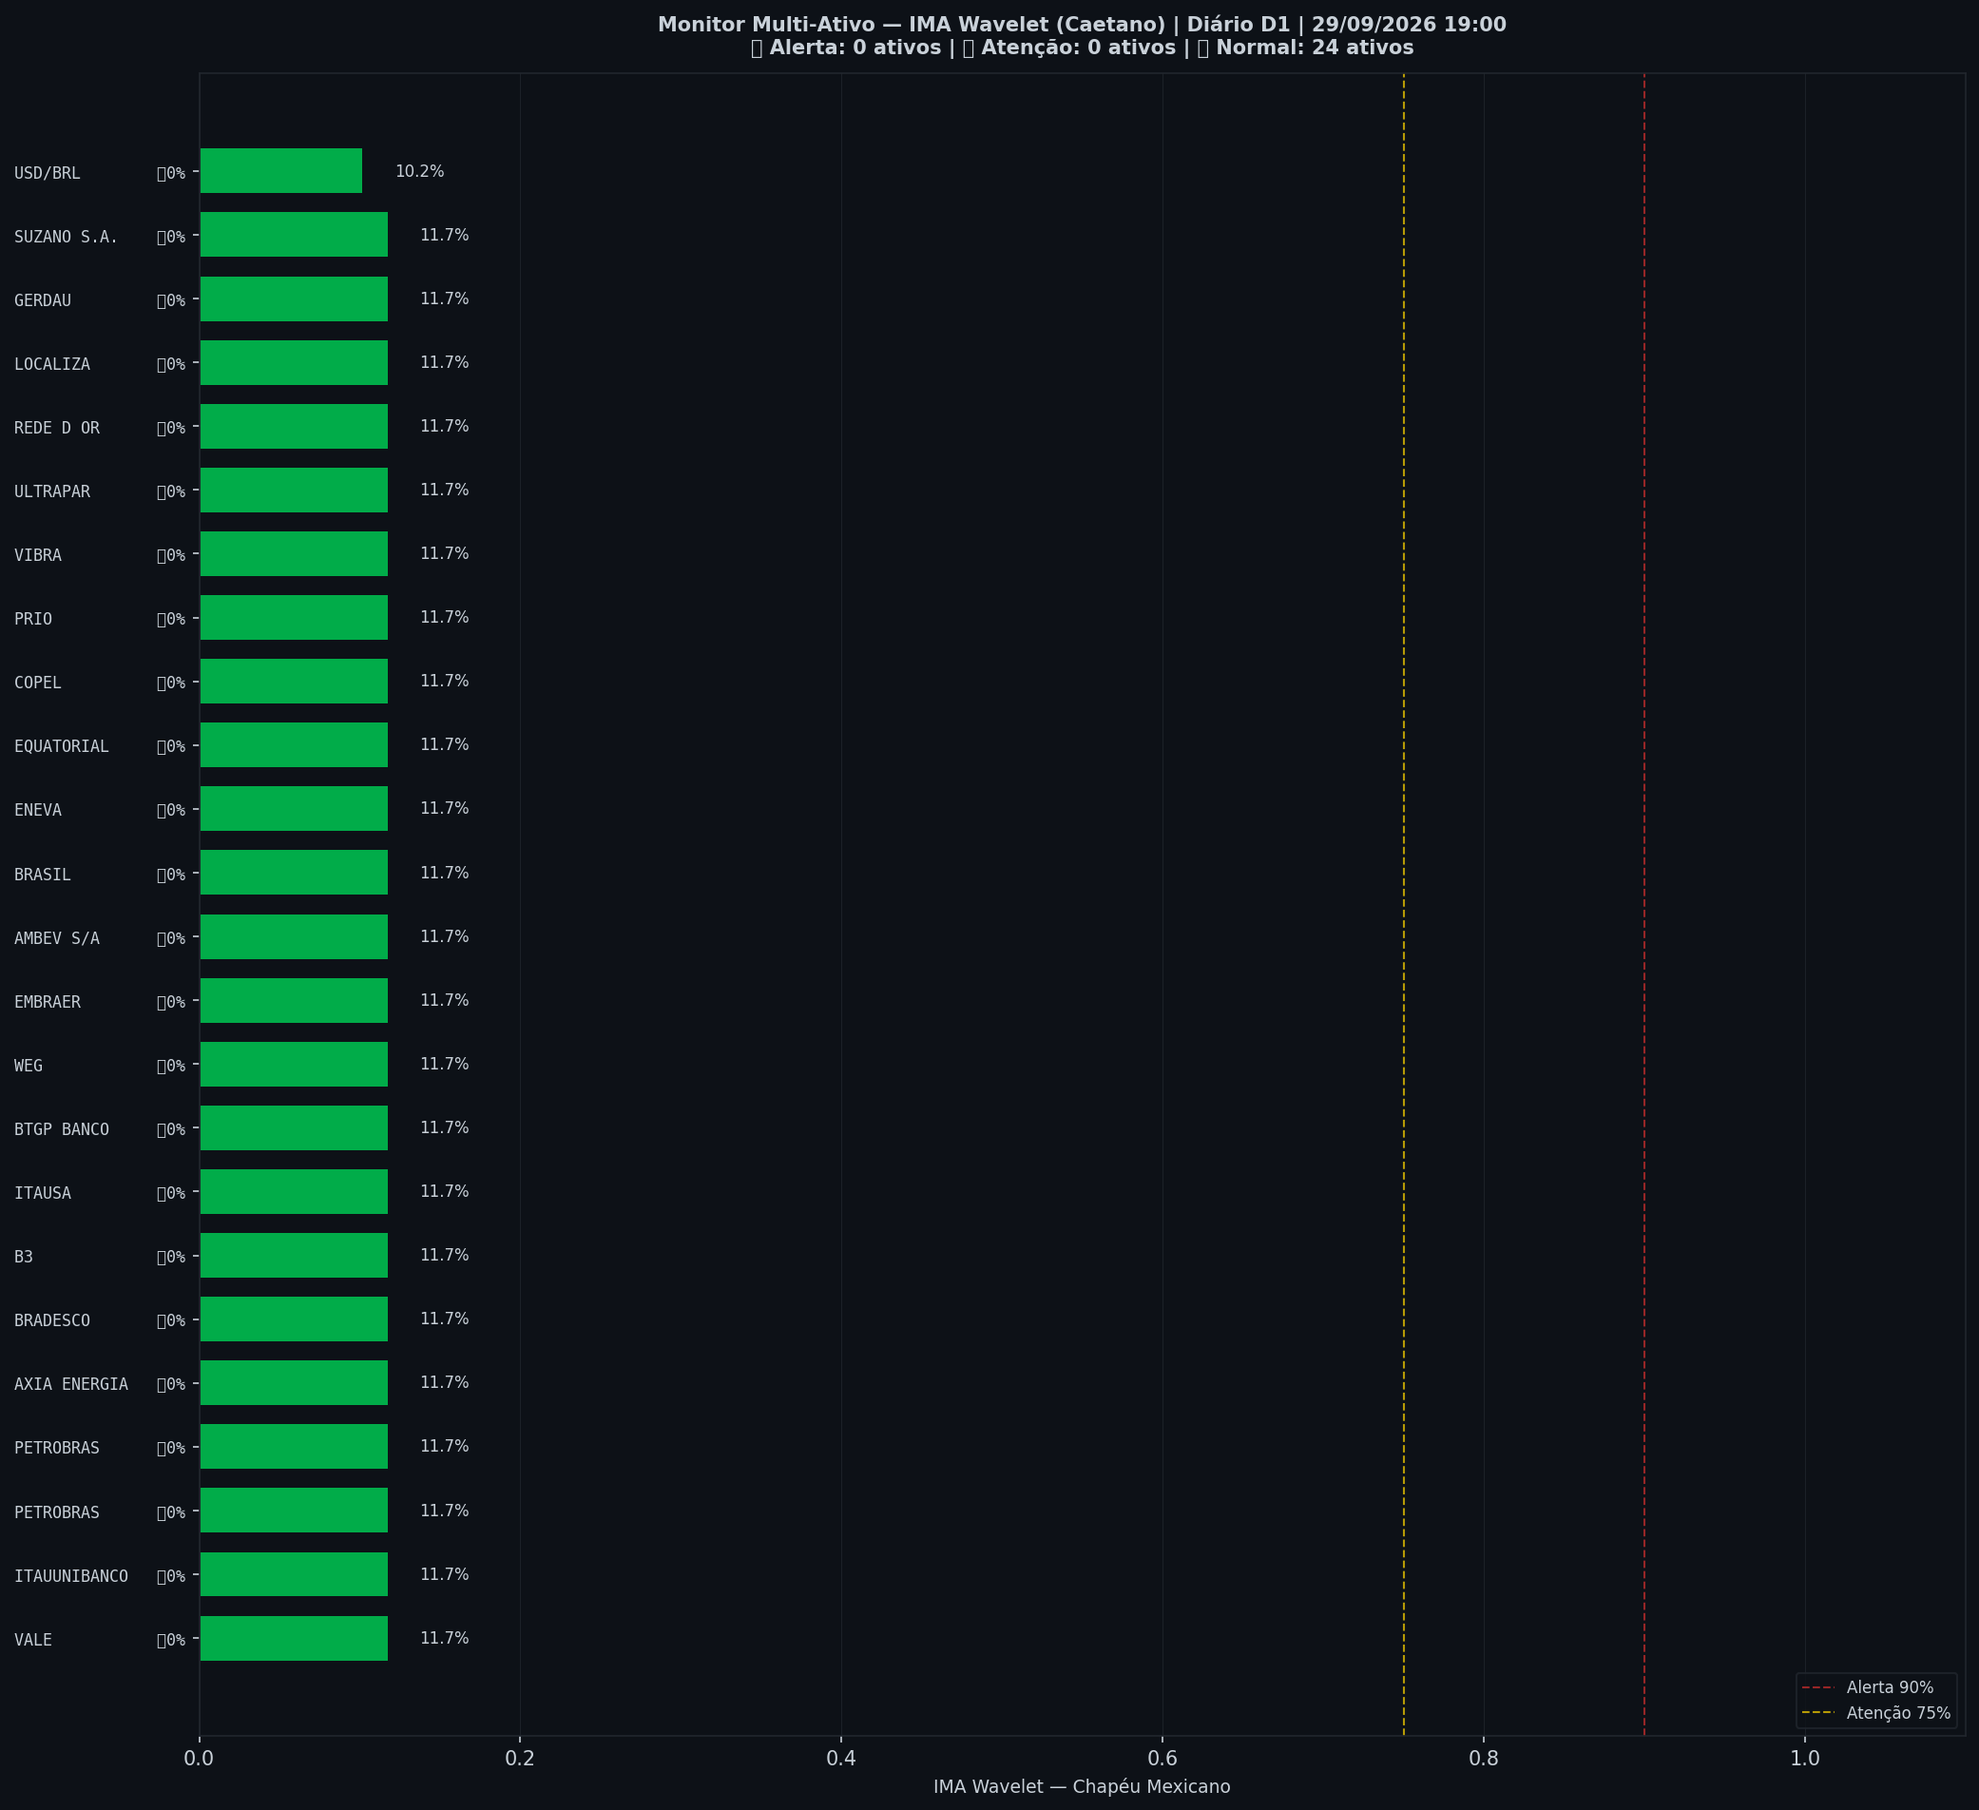
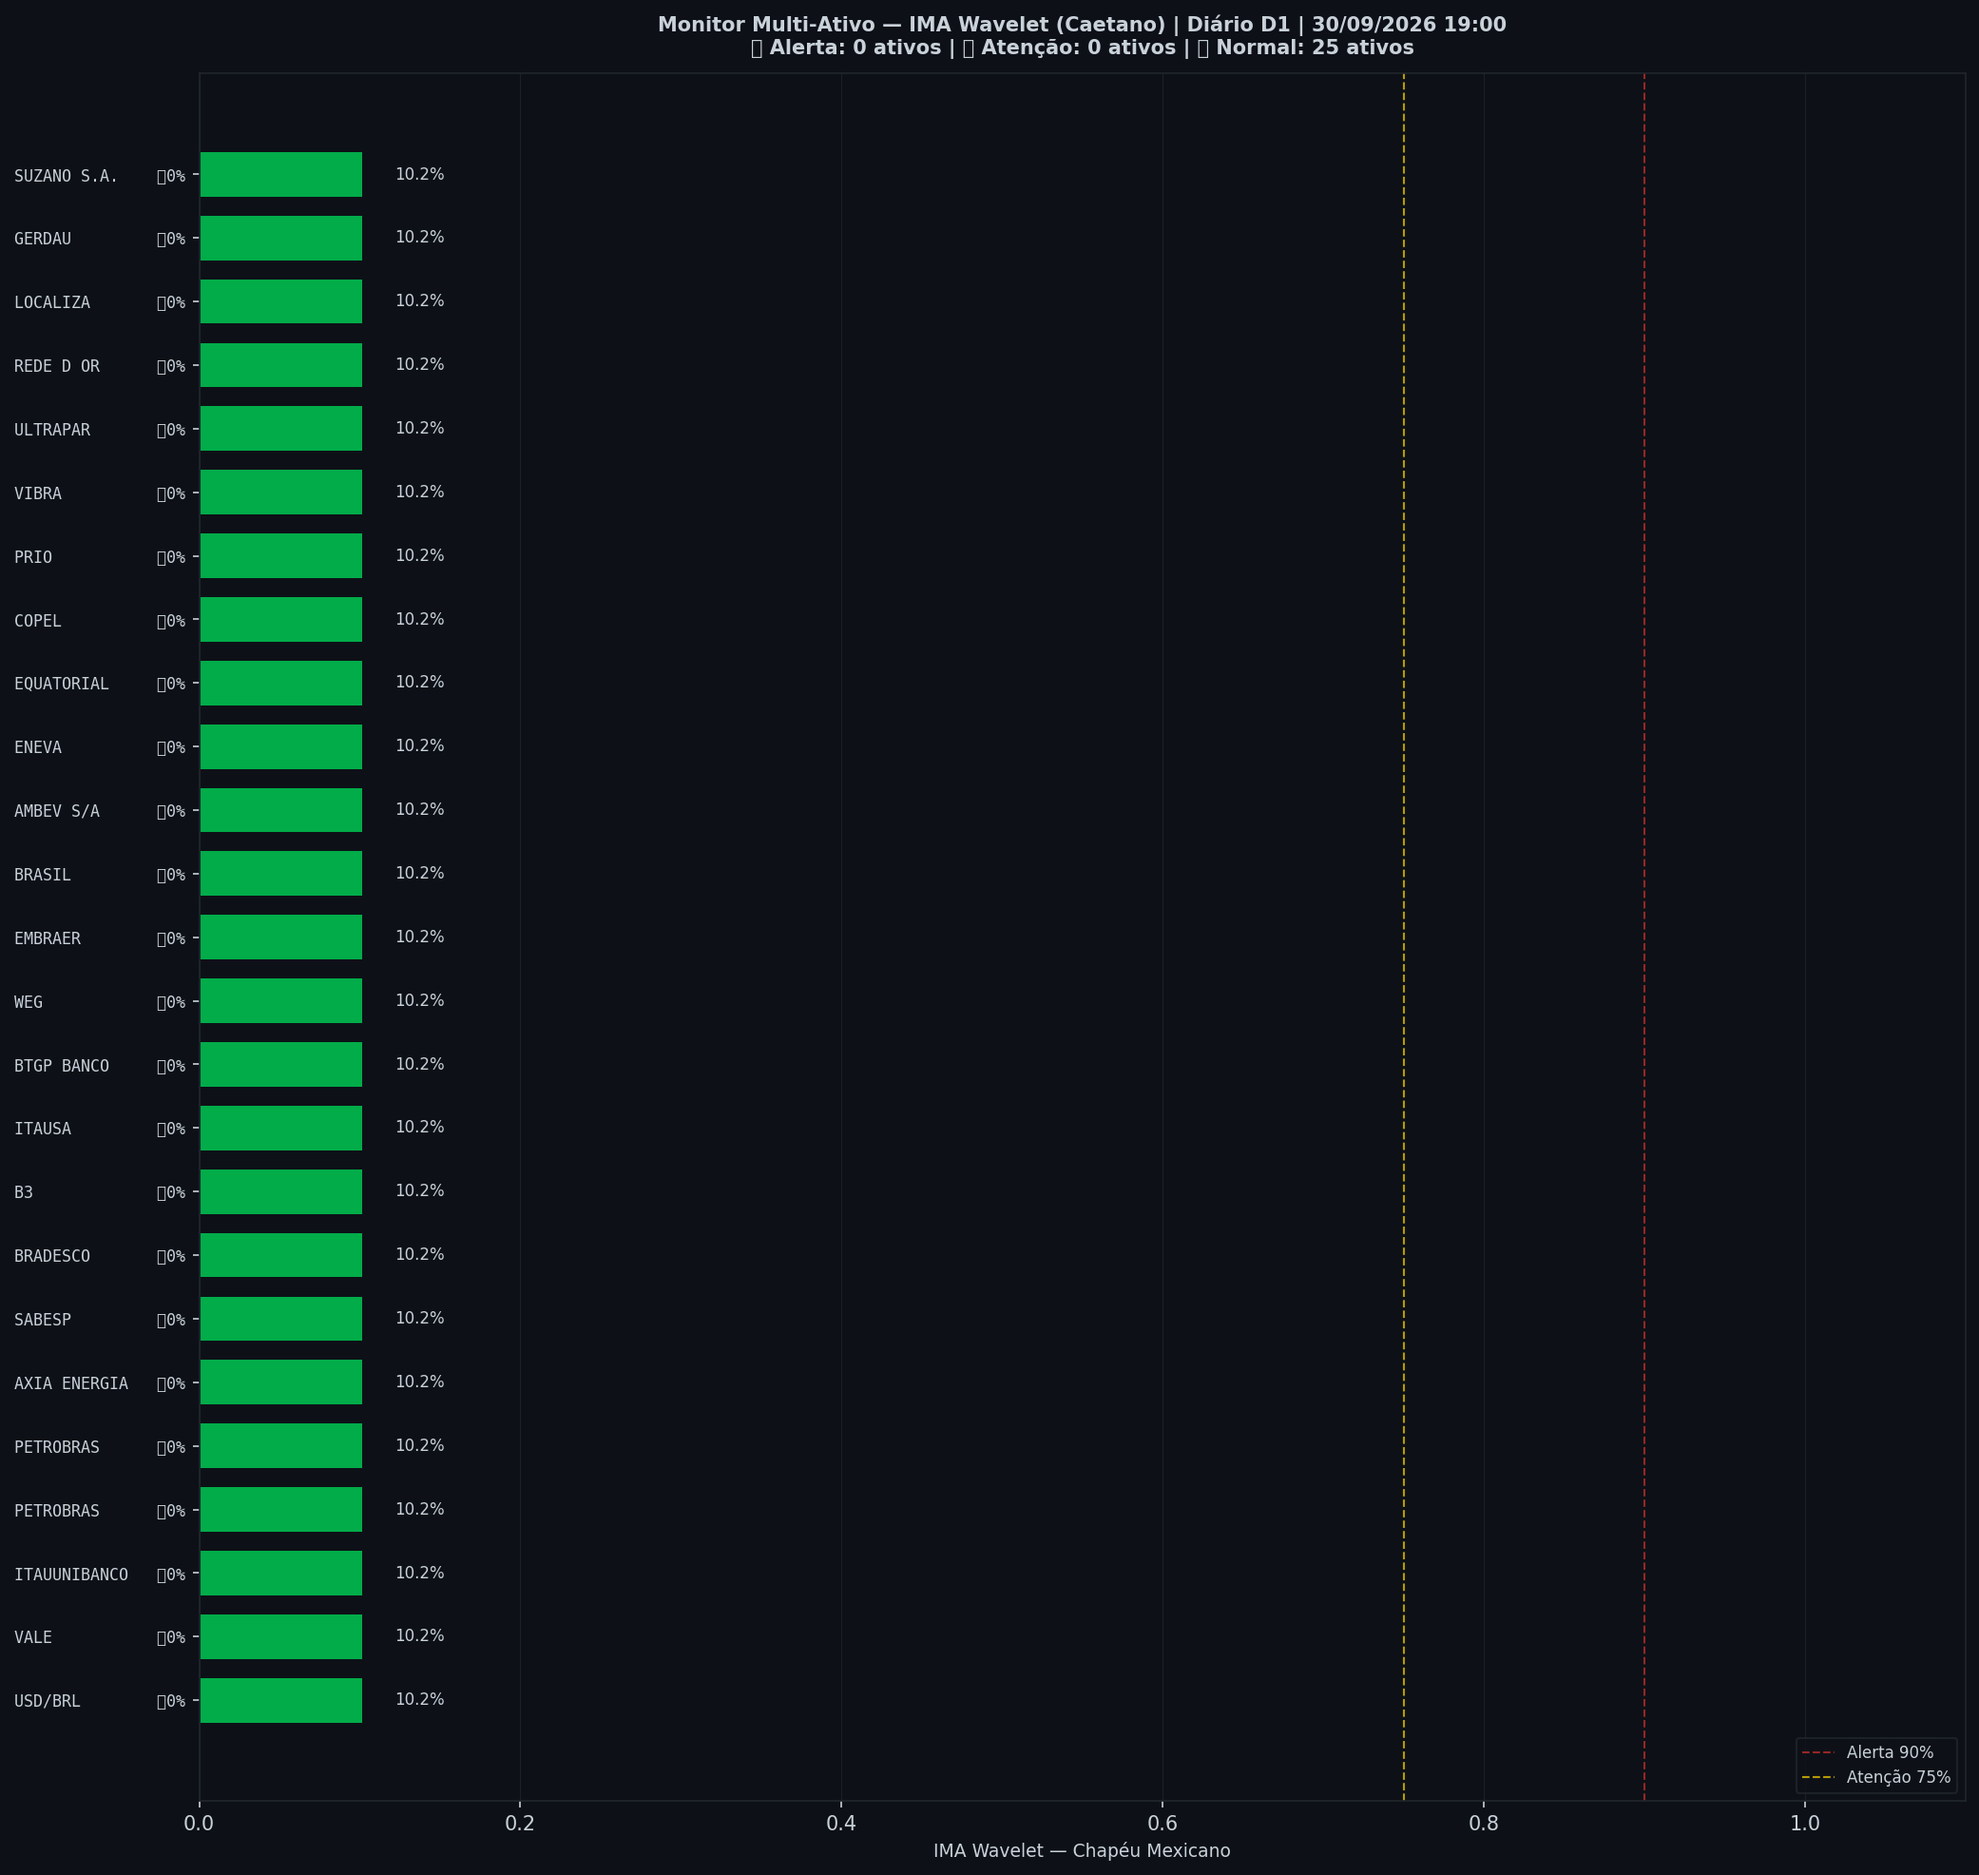
🤖 Auto: Sinal 30/09/2026 19:00

diff --git a/content/diario/2026-09-29.md b/content/diario/2026-09-29.md
@@ -1,0 +1,103 @@
+---
+title: "🟢 Diário 29/09/2026 — VERDE"
+date: 2026-09-30
+tags: [diario]
+---
+
+> [!success] 🟢 **VERDE** — Risco 0% · ＝ +0 p.p. vs leitura anterior
+> `░░░░░░░░░░░░░░░░░░░░`
+> Mercado sem sinais relevantes de estresse.
+
+
+| Indicador | Valor |
+|---|---|
+| 🔴 ζ Crash — severidade da queda em curso | **0%** |
+| 🔵 ζ Entrada — estrutura de fundo | 11% |
+| 🫧 LPPL DS-Confidence | 0% |
+| 📊 Ibovespa | 186.340 pts |
+
+![Gráfico do sinal](../graficos/sinal_diario.png)
+
+## Últimos 30 pregões
+
+| Data | Zona | Risco | IMA Crash | Entrada | LPPL |
+|---|---|---|---|---|---|
+| 2026-09-29 21:00 | 🟢 VERDE | **0%** | 0% | 11% | 0% |
+| 2026-09-28 21:00 | 🟢 VERDE | **0%** | 0% | 11% | 0% |
+| 2026-09-27 21:00 | 🟢 VERDE | **0%** | 1% | 9% | 0% |
+| 2026-09-24 21:00 | 🟢 VERDE | **1%** | 2% | 5% | 0% |
+| 2026-09-23 21:00 | 🟢 VERDE | **0%** | 0% | 4% | 0% |
+| 2026-09-22 21:00 | 🟢 VERDE | **0%** | 0% | 3% | 0% |
+| 2026-09-21 21:00 | 🟢 VERDE | **0%** | 0% | 3% | 0% |
+| 2026-09-20 21:00 | 🟢 VERDE | **1%** | 2% | 4% | 0% |
+| 2026-09-17 21:00 | 🟢 VERDE | **4%** | 7% | 3% | 0% |
+| 2026-09-16 21:00 | 🟢 VERDE | **9%** | 15% | 2% | 0% |
+| 2026-09-15 21:00 | 🟢 VERDE | **11%** | 18% | 2% | 0% |
+| 2026-09-14 21:00 | 🟢 VERDE | **37%** | 62% | 0% | 0% |
+| 2026-09-13 21:00 | 🟢 VERDE | **32%** | 53% | 0% | 0% |
+| 2026-09-10 21:00 | 🟢 VERDE | **30%** | 50% | 0% | 0% |
+| 2026-09-09 21:00 | 🟢 VERDE | **27%** | 45% | 0% | 0% |
+| 2026-09-08 21:00 | 🟢 VERDE | **22%** | 37% | 0% | 0% |
+| 2026-09-07 21:00 | 🟢 VERDE | **17%** | 28% | 0% | 0% |
+| 2026-09-03 21:00 | 🟢 VERDE | **6%** | 10% | 1% | 0% |
+| 2026-09-02 21:00 | 🟢 VERDE | **3%** | 5% | 5% | 0% |
+| 2026-09-01 21:00 | 🟢 VERDE | **8%** | 14% | 2% | 0% |
+| 2026-08-31 21:00 | 🟢 VERDE | **8%** | 12% | 0% | 0% |
+| 2026-08-30 21:00 | 🟢 VERDE | **8%** | 12% | 0% | 0% |
+| 2026-08-27 21:00 | 🟢 VERDE | **6%** | 9% | 0% | 0% |
+| 2026-08-26 21:00 | 🟢 VERDE | **4%** | 6% | 1% | 0% |
+| 2026-08-25 21:00 | 🟢 VERDE | **2%** | 4% | 6% | 0% |
+| 2026-08-24 21:00 | 🟢 VERDE | **0%** | 1% | 14% | 0% |
+| 2026-08-23 21:00 | 🟢 VERDE | **0%** | 0% | 21% | 0% |
+| 2026-08-20 21:00 | 🟢 VERDE | **0%** | 0% | 25% | 0% |
+| 2026-08-19 21:00 | 🟢 VERDE | **0%** | 0% | 27% | 0% |
+| 2026-08-18 21:00 | 🟢 VERDE | **0%** | 0% | 27% | 0% |
+
+## Monitor Multi-Ativo
+
+**0% dos ativos em tensão** (0🔴 0🟡) — quanto mais ativos disparam juntos, mais confiável o sinal.
+
+| Zona | Ativo | Setor | IMA Crash | IMA Entrada |
+|---|---|---|---|---|
+| 🟢 | **VALE** | Mineração | 10.2% | 0.0% |
+| 🟢 | **ITAUUNIBANCO** | Financeiro | 10.2% | 0.0% |
+| 🟢 | **PETROBRAS** | Petróleo | 10.2% | 0.0% |
+| 🟢 | **PETROBRAS** | Petróleo | 10.2% | 0.0% |
+| 🟢 | **AXIA ENERGIA** | Energia | 10.2% | 0.0% |
+| 🟢 | **SABESP** | Saneamento | 10.2% | 0.0% |
+| 🟢 | **BRADESCO** | Financeiro | 10.2% | 0.0% |
+| 🟢 | **B3** | Financeiro | 10.2% | 0.0% |
+| 🟢 | **ITAUSA** | Financeiro | 10.2% | 0.0% |
+| 🟢 | **BTGP BANCO** | Financeiro | 10.2% | 0.0% |
+| 🟢 | **WEG** | Industrial | 10.2% | 0.0% |
+| 🟢 | **EMBRAER** | Outros | 10.2% | 0.0% |
+| 🟢 | **BRASIL** | Financeiro | 10.2% | 0.0% |
+| 🟢 | **AMBEV S/A** | Consumo | 10.2% | 0.0% |
+| 🟢 | **ENEVA** | Energia | 10.2% | 0.0% |
+| 🟢 | **EQUATORIAL** | Energia | 10.2% | 0.0% |
+| 🟢 | **COPEL** | Energia | 10.2% | 0.0% |
+| 🟢 | **PRIO** | Petróleo | 10.2% | 0.0% |
+| 🟢 | **VIBRA** | Energia | 10.2% | 0.0% |
+| 🟢 | **ULTRAPAR** | Outros | 10.2% | 0.0% |
+| 🟢 | **REDE D OR** | Saúde | 10.2% | 0.0% |
+| 🟢 | **LOCALIZA** | Aluguel | 10.2% | 0.0% |
+| 🟢 | **GERDAU** | Siderurgia | 10.2% | 0.0% |
+| 🟢 | **SUZANO S.A.** | Papel/Celulose | 10.2% | 0.0% |
+| 🟢 | **USD/BRL** | Câmbio | 10.2% | 0.0% |
+
+![Monitor multi-ativo](../graficos/multi_diario.png)
+
+*Página atualizada em 30/09/2026 19:00 BRT (leitura da barra de 2026-09-29 BRT).*
+
+> [!info]- Como interpretar (clique para expandir)
+> - **ζ Crash**: fração dos coeficientes wavelet acima do corte (Caetano & Yoneyama 2009). Escala absoluta: ζ=0,90 = 90% dos coeficientes anômalos — historicamente, quedas com ζ≥0,90 foram mais fundas e mais longas. **Mede a severidade do movimento em curso, não prevê o início da queda.**
+> - **ζ Entrada**: coeficientes negativos além do corte — estrutura de fundo, possível região de compra.
+> - **LPPL DS-Confidence**: fração de janelas (60–504 pregões) em que o modelo de bolha de Sornette produz um ajuste válido. 30% já é relevante; acima de 50% é forte evidência de estrutura de bolha.
+> - **Zonas com histerese**: o sinal só muda de zona ao cruzar o limiar de entrada, e só volta ao cruzar o de saída — evita flip-flop diário.
+
+
+---
+*Sinal de Crise B3 v4 · IMA Wavelet ([Caetano & Yoneyama, Physica-A 2007](https://doi.org/10.1016/j.physa.2007.03.054)) + LPPL DS-Confidence (Sornette, ETH-Zurich) · [Metodologia](metodologia) · [Histórico](historico)*
+
+> [!quote]- Aviso
+> Estudo acadêmico. Não constitui recomendação de investimento.

diff --git a/content/index.md b/content/index.md
@@ -4,23 +4,23 @@ date: 2026-09-30
 tags: [home]
 ---
 
-# 🔴 Sinal de Crise B3
+# 🟢 Sinal de Crise B3
 
 Monitoramento diário e intraday do Ibovespa — **IMA Wavelet** (Prof. Marco Antonio Leonel Caetano, ITA/INSPER) + **LPPL DS-Confidence** (Prof. Didier Sornette, ETH-Zurich).
 
-*Última atualização: 30/09/2026 17:30 BRT · ^BVSP · Intraday 15min · v4*
+*Última atualização: 30/09/2026 19:00 BRT · ^BVSP · Diário D1 · v4*
 
-> [!danger] 🔴 **VERMELHO** — Risco 91% · ▼ -3 p.p. vs leitura anterior
-> `██████████████████░░`
-> ALERTA DE CRISE — padrão pré-crise detectado.
+> [!success] 🟢 **VERDE** — Risco 0% · ＝ +0 p.p. vs leitura anterior
+> `░░░░░░░░░░░░░░░░░░░░`
+> Mercado sem sinais relevantes de estresse.
 
 
 | Indicador | Valor |
 |---|---|
-| 🔴 ζ Crash — severidade da queda em curso | **91%** |
-| 🔵 ζ Entrada — estrutura de fundo | 0% |
+| 🔴 ζ Crash — severidade da queda em curso | **0%** |
+| 🔵 ζ Entrada — estrutura de fundo | 11% |
 | 🫧 LPPL DS-Confidence | 0% |
-| 📊 Ibovespa | 186.752 pts |
+| 📊 Ibovespa | 186.340 pts |
 
 **Multi-ativo:** 0% em tensão (0🔴 0🟡 de 25 ativos)
 
@@ -32,8 +32,13 @@ Monitoramento diário e intraday do Ibovespa — **IMA Wavelet** (Prof. Marco An
 
 | Data | Zona | Risco | IMA | LPPL |
 |---|---|---|---|---|
-| [30 Sep 2026](diario/2026-09-30) | 🔴 VERMELHO | **91%** | 91% | 0% |
-| [29 Sep 2026](diario/2026-09-29) | 🟢 VERDE | **38%** | 38% | 0% |
+| [29 Sep 2026](diario/2026-09-29) | 🟢 VERDE | **0%** | 0% | 0% |
+| [28 Sep 2026](diario/2026-09-28) | 🟢 VERDE | **0%** | 0% | 0% |
+| [27 Sep 2026](diario/2026-09-27) | 🟢 VERDE | **0%** | 1% | 0% |
+| [24 Sep 2026](diario/2026-09-24) | 🟢 VERDE | **1%** | 2% | 0% |
+| [23 Sep 2026](diario/2026-09-23) | 🟢 VERDE | **0%** | 0% | 0% |
+| [22 Sep 2026](diario/2026-09-22) | 🟢 VERDE | **0%** | 0% | 0% |
+| [21 Sep 2026](diario/2026-09-21) | 🟢 VERDE | **0%** | 0% | 0% |
 
 ## Navegação
 

diff --git a/content/historico.md b/content/historico.md
@@ -7,6 +7,7 @@ tags: [historico]
 
 | Data | Modo | Zona | Risco | IMA | LPPL |
 |---|---|---|---|---|---|
+| 2026-09-29 | diario | 🟢 VERDE | 0% | 0% | 0% |
 | 2026-09-30 16:45 | intraday | 🔴 VERMELHO | 91% | 91% | 0% |
 | 2026-09-30 16:30 | intraday | 🔴 VERMELHO | 94% | 94% | 0% |
 | 2026-09-30 16:15 | intraday | 🔴 VERMELHO | 96% | 96% | 0% |
